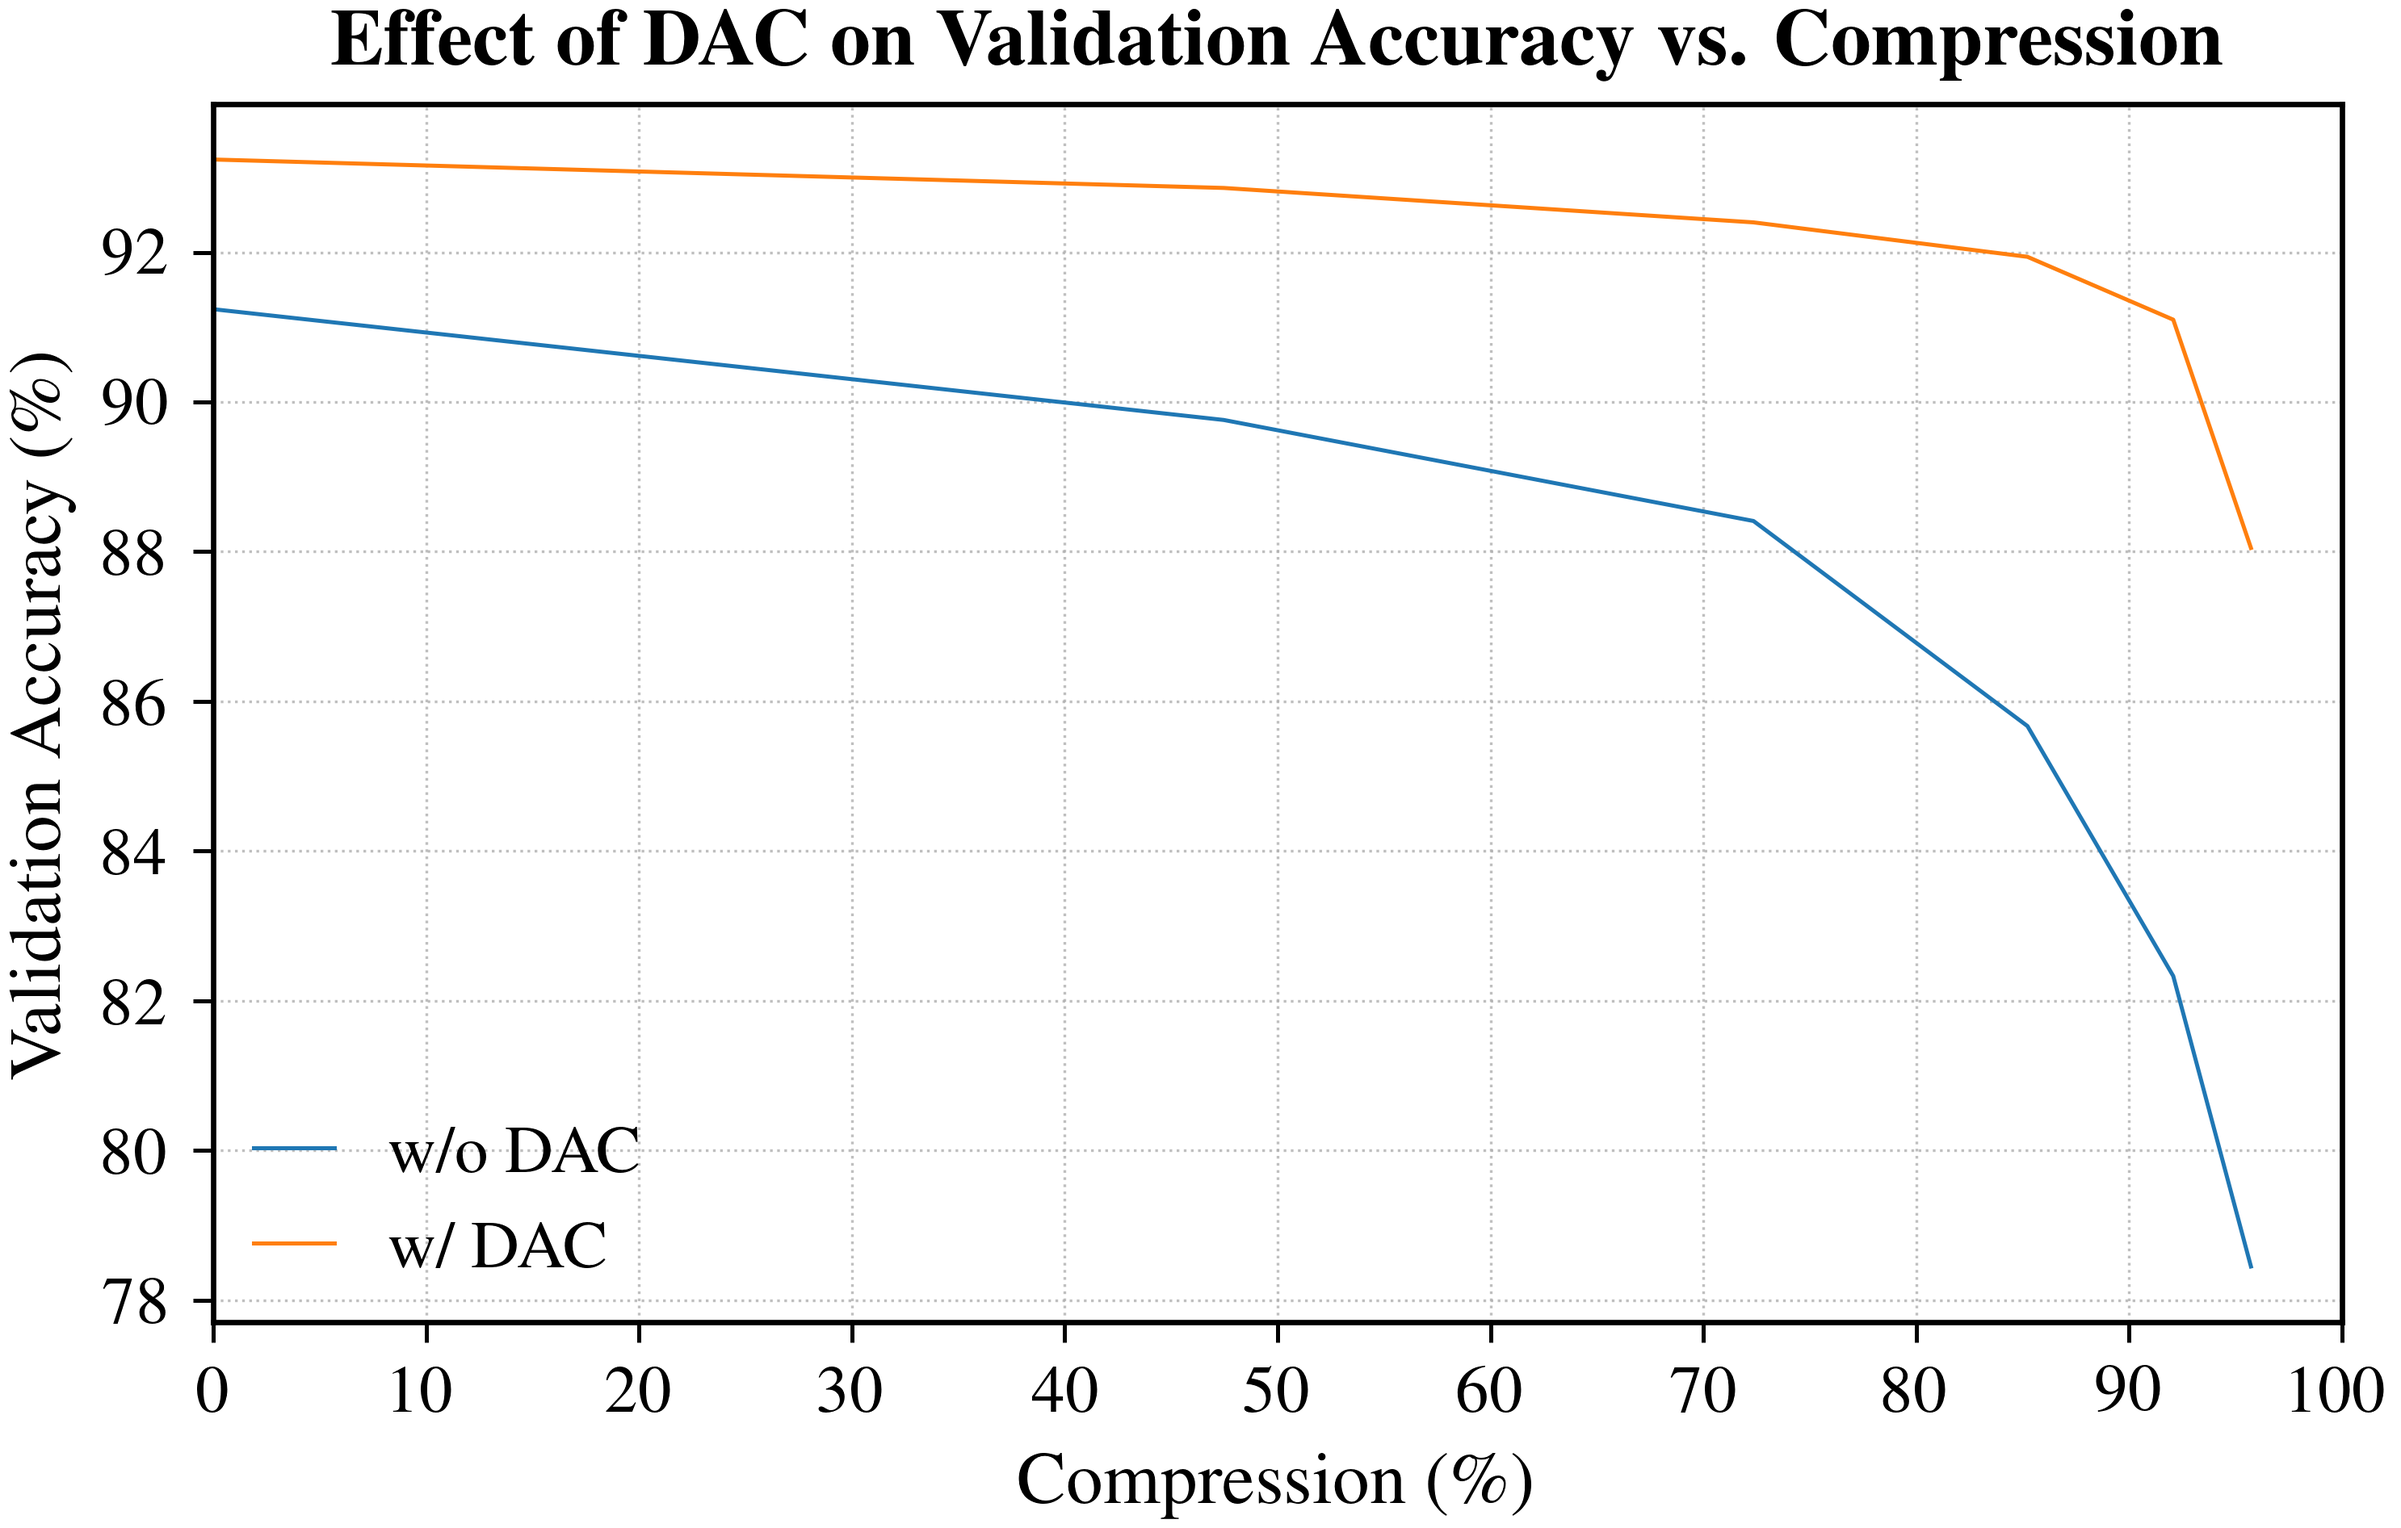
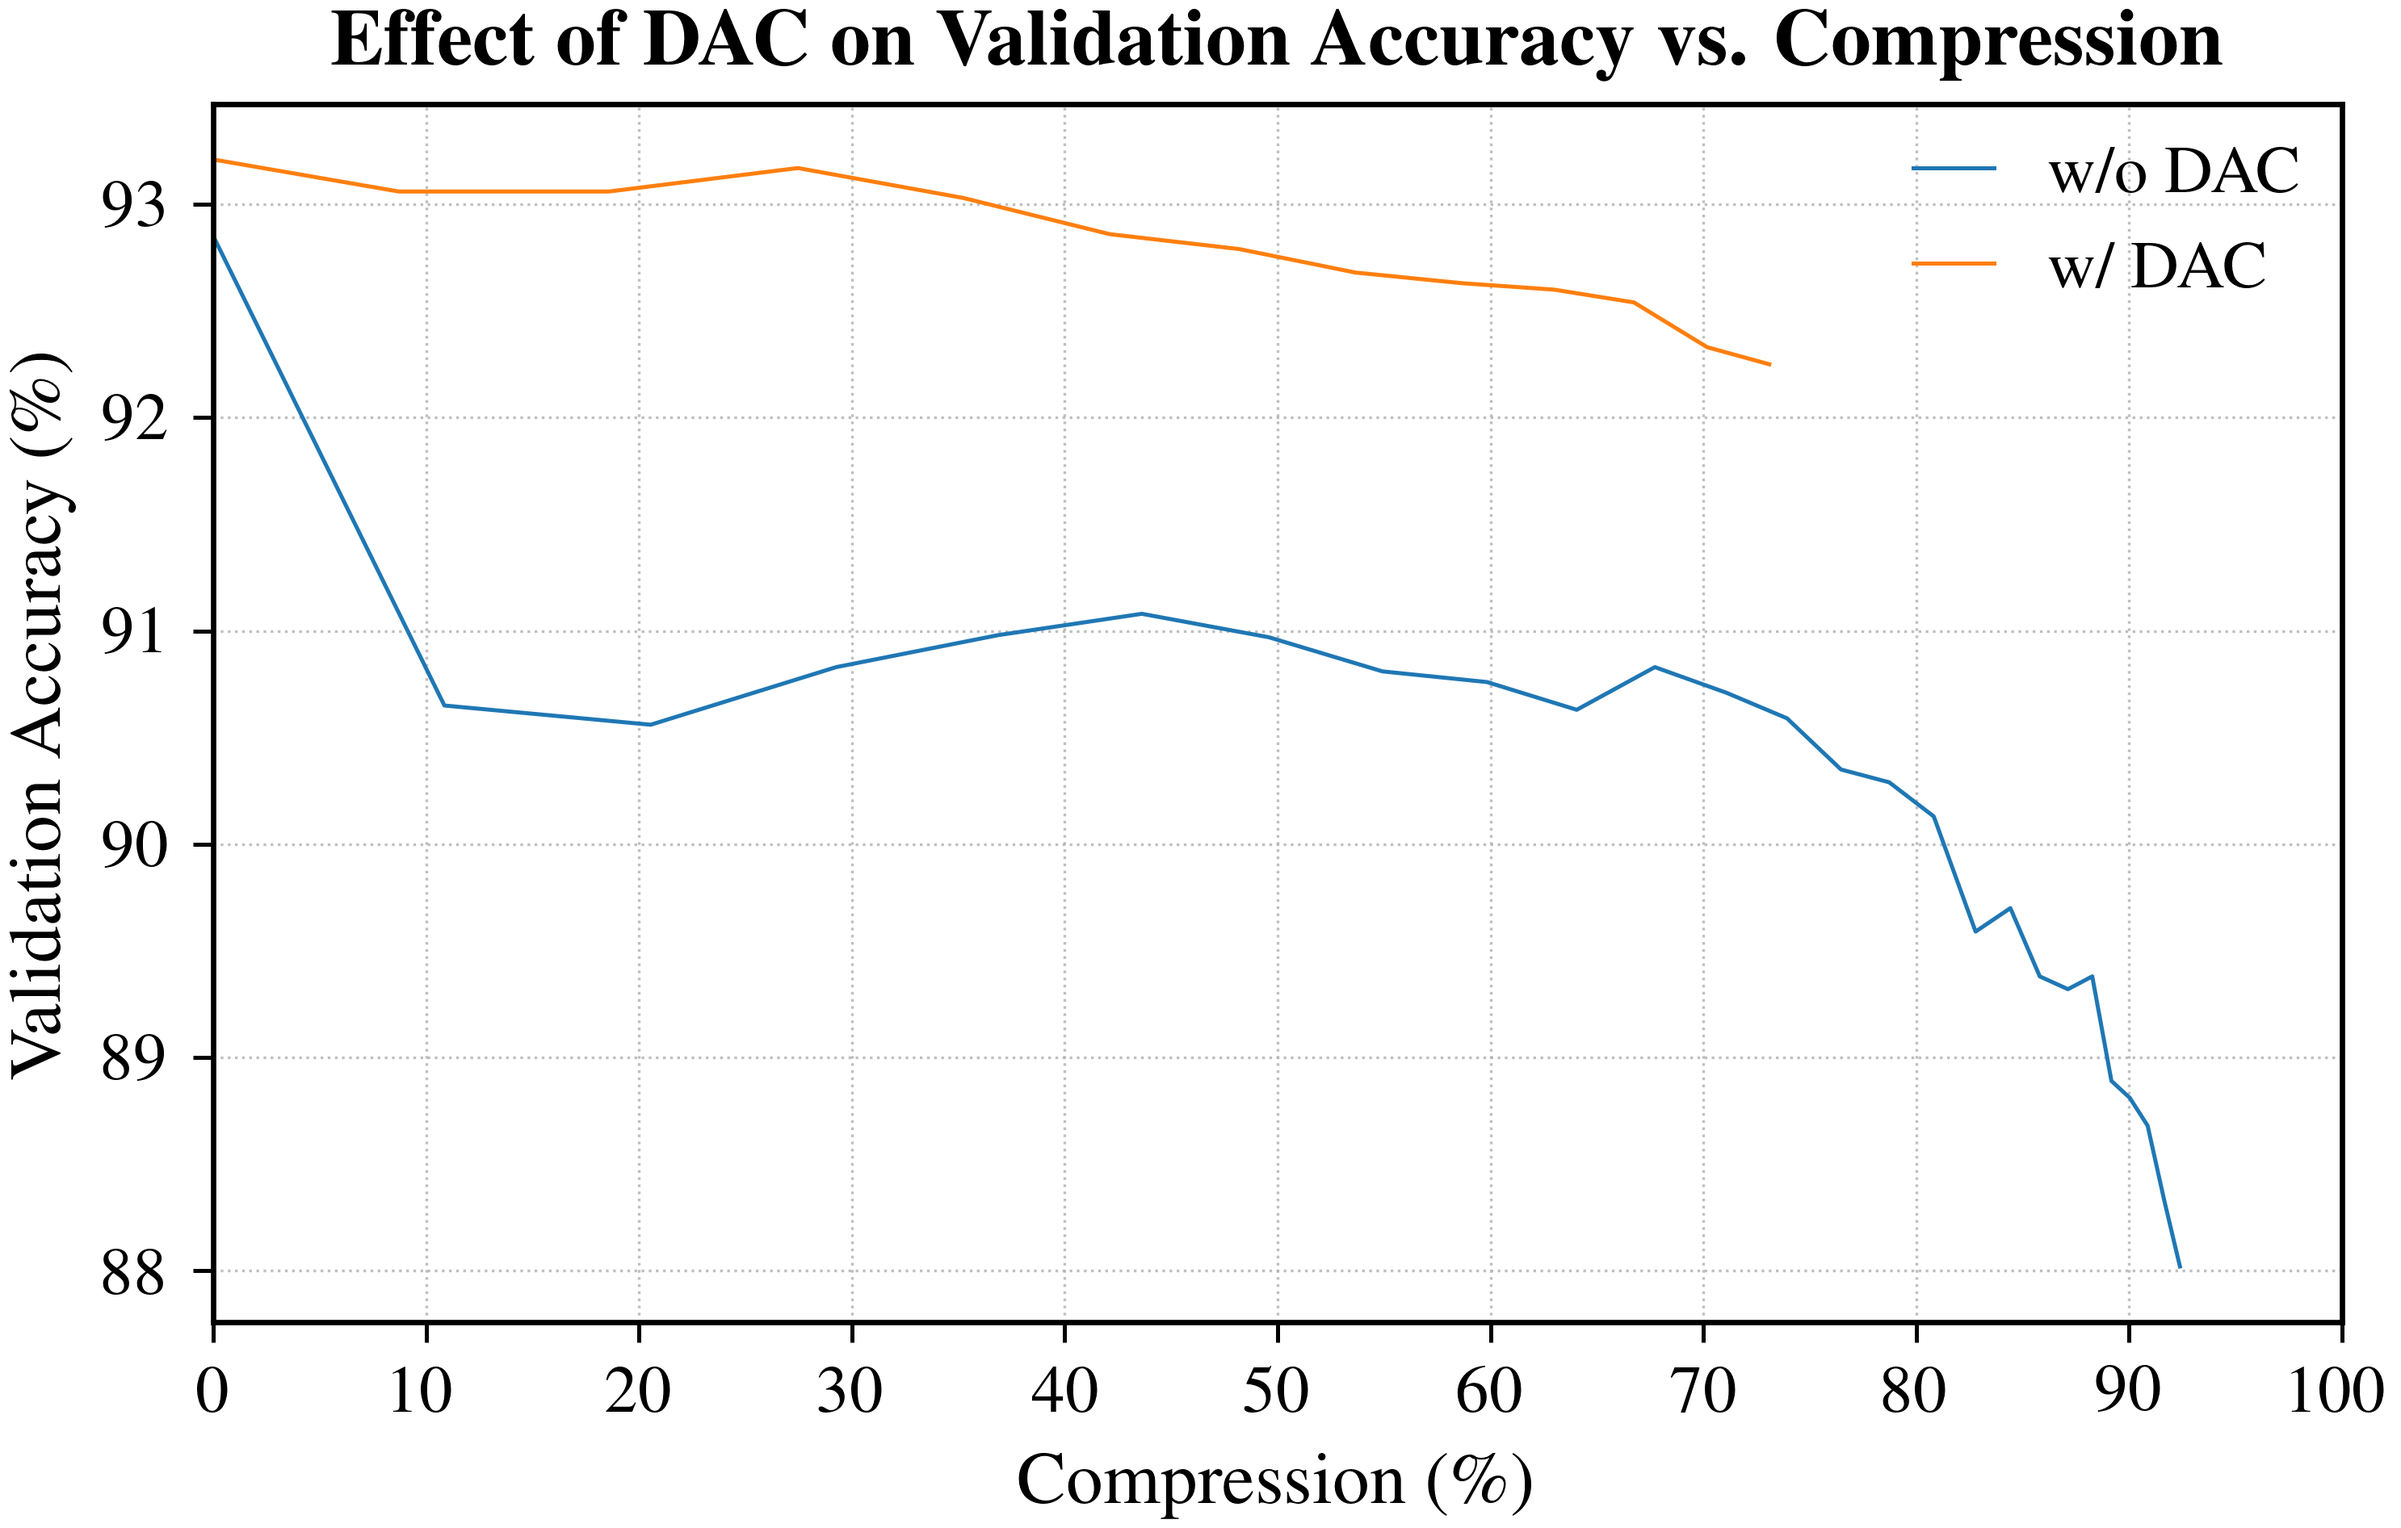
start with final plot

diff --git a/framework/utils/plots/plot_repository.py b/framework/utils/plots/plot_repository.py
@@ -764,6 +764,7 @@ def plot_dac_compression_curves(
         json_path: Union[str, Path],
         out_path_base: Union[str, Path] = "dac_compression_curves",
         *,
+        total_parameters: int,
         title: str = "Effect of DAC on Validation Accuracy vs. Compression",
         use_latex: bool = True,
         figsize: Tuple[float, float] = DEFAULT_FIGSIZE,
@@ -779,23 +780,37 @@ def plot_dac_compression_curves(
       {
         "Parameter": 11191917,
         "Acc_without_DAC": 91.24,
-        "Acc_with_DAC": 93.24,
-        "Compression": 0.0
+        "Acc_with_DAC": null
+      },
+      {
+        "Parameter": 5878933,
+        "Acc_without_DAC": null,
+        "Acc_with_DAC": 92.86
       },
       ...
     ]
+
+    Compression is computed as:
+        Compression (%) = 100 * (1 - Parameter / total_parameters)
+
+    All entries with a value in Acc_without_DAC form the "w/o DAC" curve.
+    All entries with a value in Acc_with_DAC form the "w/ DAC" curve.
     """
+
+    if total_parameters <= 0:
+        raise ValueError(f"total_parameters must be positive, got {total_parameters}")
+
     # Runtime plotting options
     rcParams.update({
         "text.usetex": use_latex,
         "savefig.dpi": png_dpi,
-        "axes.titlesize": 12,  # was 10
-        "axes.labelsize": 11,  # was 9
-        "legend.fontsize": 10,  # was 8
+        "axes.titlesize": 12,
+        "axes.labelsize": 11,
+        "legend.fontsize": 10,
         "legend.title_fontsize": 10,
-        "xtick.labelsize": 10,  # was 8
+        "xtick.labelsize": 10,
         "ytick.labelsize": 10,
-        "figure.titlesize": 13,  # was 11
+        "figure.titlesize": 13,
     })
 
     json_path = Path(json_path)
@@ -810,20 +825,59 @@ def plot_dac_compression_curves(
 
     df = pd.DataFrame(data)
 
-    required_cols = {"Compression", "Acc_without_DAC", "Acc_with_DAC"}
+    required_cols = {"Parameter", "Acc_without_DAC", "Acc_with_DAC"}
     missing = required_cols - set(df.columns)
     if missing:
         raise ValueError(f"{json_path} is missing required columns: {missing}")
 
-    # Ensure numeric and sorted by compression
-    df["Compression"] = pd.to_numeric(df["Compression"], errors="coerce")
+    # Ensure numeric
+    df["Parameter"] = pd.to_numeric(df["Parameter"], errors="coerce")
     df["Acc_without_DAC"] = pd.to_numeric(df["Acc_without_DAC"], errors="coerce")
     df["Acc_with_DAC"] = pd.to_numeric(df["Acc_with_DAC"], errors="coerce")
-    df = df.dropna(subset=["Compression", "Acc_without_DAC", "Acc_with_DAC"])
-    df = df.sort_values("Compression").reset_index(drop=True)
 
+    # Drop rows with invalid Parameter
+    df = df.dropna(subset=["Parameter"])
     if df.empty:
-        raise ValueError(f"No valid numeric rows found in {json_path}")
+        raise ValueError(f"No valid 'Parameter' values found in {json_path}")
+
+    # Compute compression from parameter counts
+    df["Compression"] = 100.0 * (1.0 - df["Parameter"] / float(total_parameters))
+
+    # Split into two curves: w/o DAC and w/ DAC
+    df_no = df.dropna(subset=["Acc_without_DAC"]).copy()
+    df_yes = df.dropna(subset=["Acc_with_DAC"]).copy()
+
+    if df_no.empty:
+        raise ValueError(f"No rows with 'Acc_without_DAC' found in {json_path}")
+    if df_yes.empty:
+        raise ValueError(f"No rows with 'Acc_with_DAC' found in {json_path}")
+
+    # Sort each curve by compression
+    df_no = df_no.sort_values("Compression").reset_index(drop=True)
+    df_yes = df_yes.sort_values("Compression").reset_index(drop=True)
+
+    # Decide once whether to treat accuracy as fraction or percent
+    all_acc = pd.concat(
+        [df_no["Acc_without_DAC"], df_yes["Acc_with_DAC"]],
+        ignore_index=True
+    ).dropna()
+
+    if all_acc.empty:
+        raise ValueError(f"No valid accuracy values found in {json_path}")
+
+    # In your example (80–95 range) this will evaluate to "already percent"
+    as_fraction = _is_fractional_accuracy(all_acc)
+
+    y_no = df_no["Acc_without_DAC"].to_numpy()
+    y_yes = df_yes["Acc_with_DAC"].to_numpy()
+
+    # If accuracies are fractional in [0,1], convert to percent
+    if as_fraction:
+        y_no = y_no * 100.0
+        y_yes = y_yes * 100.0
+
+    x_no = df_no["Compression"].to_numpy()
+    x_yes = df_yes["Compression"].to_numpy()
 
     fig, ax = plt.subplots(figsize=figsize)
     ax.grid(True, linestyle=":", linewidth=0.4, alpha=0.8)
@@ -831,24 +885,9 @@ def plot_dac_compression_curves(
     ax.set_xlabel("Compression (\\%)")
     ax.set_ylabel("Validation Accuracy (\\%)")
 
-    # Decide once whether to treat accuracy as fraction or percent
-    all_acc = pd.concat([df["Acc_without_DAC"], df["Acc_with_DAC"]], ignore_index=True)
-    # In your example (80–95 range) this will evaluate to "already percent"
-    as_fraction = _is_fractional_accuracy(all_acc)
-
-    y_no = df["Acc_without_DAC"].to_numpy()
-    y_yes = df["Acc_with_DAC"].to_numpy()
-
-    # If accuracies are fractional in [0,1], convert to percent
-    if as_fraction:
-        y_no = y_no * 100.0
-        y_yes = y_yes * 100.0
-
-    x = df["Compression"].to_numpy()
-
-    # Simple labels, no best point info
-    ax.plot(x, y_no, linestyle="-", marker=None, label="w/o DAC")
-    ax.plot(x, y_yes, linestyle="-", marker=None, label="w/ DAC")
+    # Plot the two curves independently
+    ax.plot(x_no, y_no, linestyle="-", marker=None, label="w/o DAC")
+    ax.plot(x_yes, y_yes, linestyle="-", marker=None, label="w/ DAC")
 
     # Show every 10% step on the x-axis
     ax.set_xticks(list(range(0, 101, 10)))

diff --git a/framework/utils/plots/generate_plots.py b/framework/utils/plots/generate_plots.py
@@ -182,6 +182,7 @@ def _plots_for_different_experiments():
         json_path="experiments/results/Experiment_13/result.json",
         out_path_base="docs/plots/10_dac_compression_curves",
         use_latex=True,
+        total_parameters=11191917,
         figsize=(5, 3.2)
     )
 

diff --git a/experiments/results/Experiment_13/results.md b/experiments/results/Experiment_13/results.md
@@ -2,6 +2,7 @@
 
 | Acc. after fine tuning | Parameter after pruning |
 |------------------------|-------------------------|
+| 92.85                  | 11191917                |
 | 90.65                  | 9977124                 |
 | 90.56                  | 8892179                 |
 | 90.83                  | 7917040                 |
@@ -27,4 +28,23 @@
 | 88.68                  | 1021137                 |
 | 88.33                  | 933838                  |
 | 88.02                  | 851304                  |
+
+# With DAC
+
+| Acc. after fine tuning | Parameter after pruning |
+|------------------------|-------------------------|
+| 93.21                  | 11191917                |
+| 93.06                  | 10217252                |
+| 93.06                  | 9111827                 |
+| 93.17                  | 8118256                 |
+| 93.03                  | 7249946                 |
+| 92.86                  | 6478605                 |
+| 92.79                  | 5796873                 |
+| 92.68                  | 5186686                 |
+| 92.63                  | 4625215                 |
+| 92.6                   | 4142679                 |
+| 92.54                  | 3722256                 |
+| 92.33                  | 3337167                 |
+| 92.25                  | 3010434                 |
+
 
